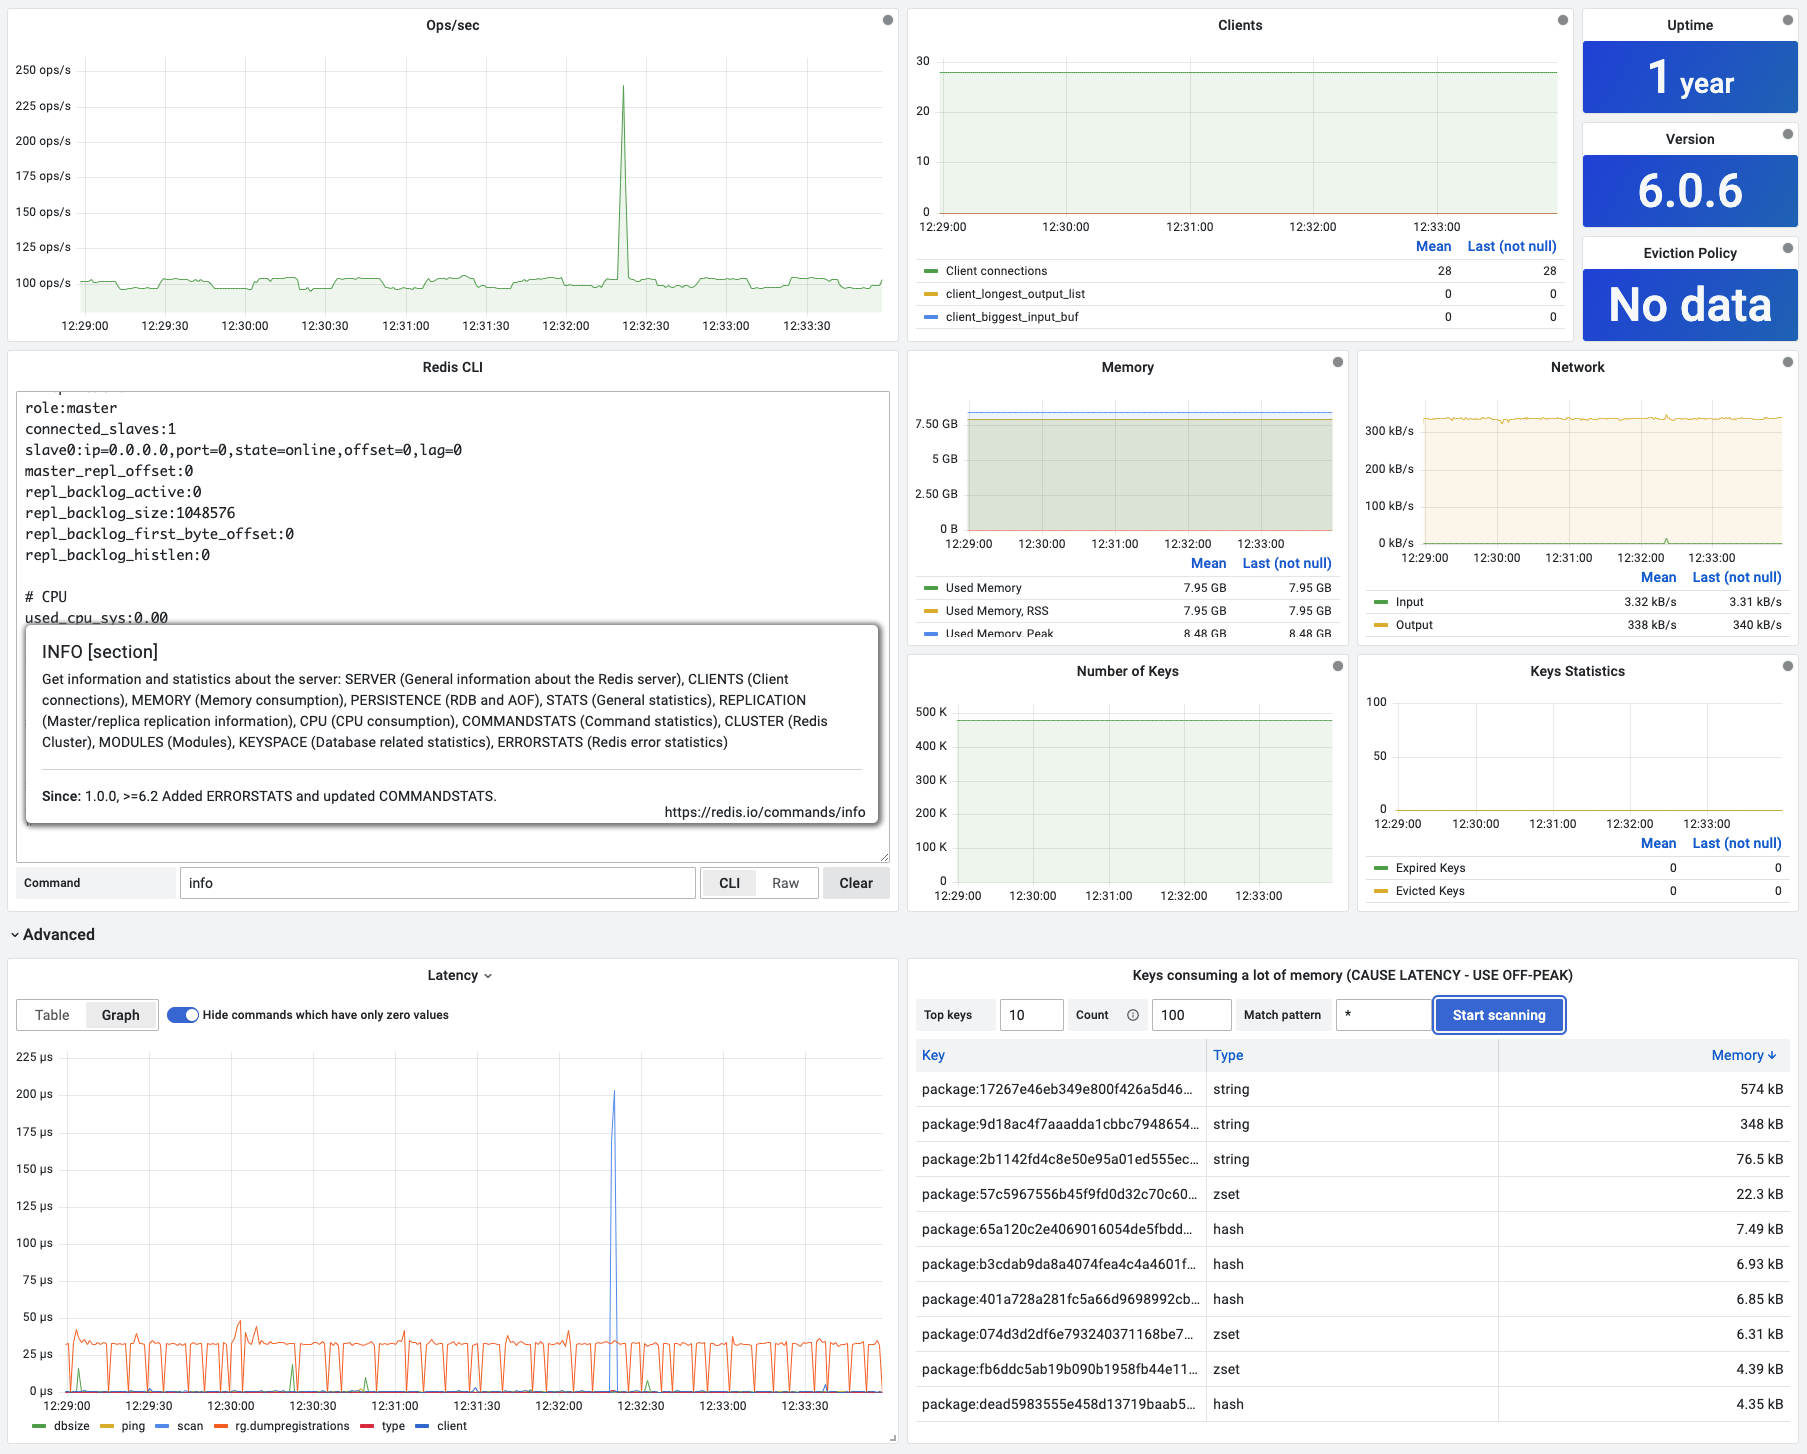
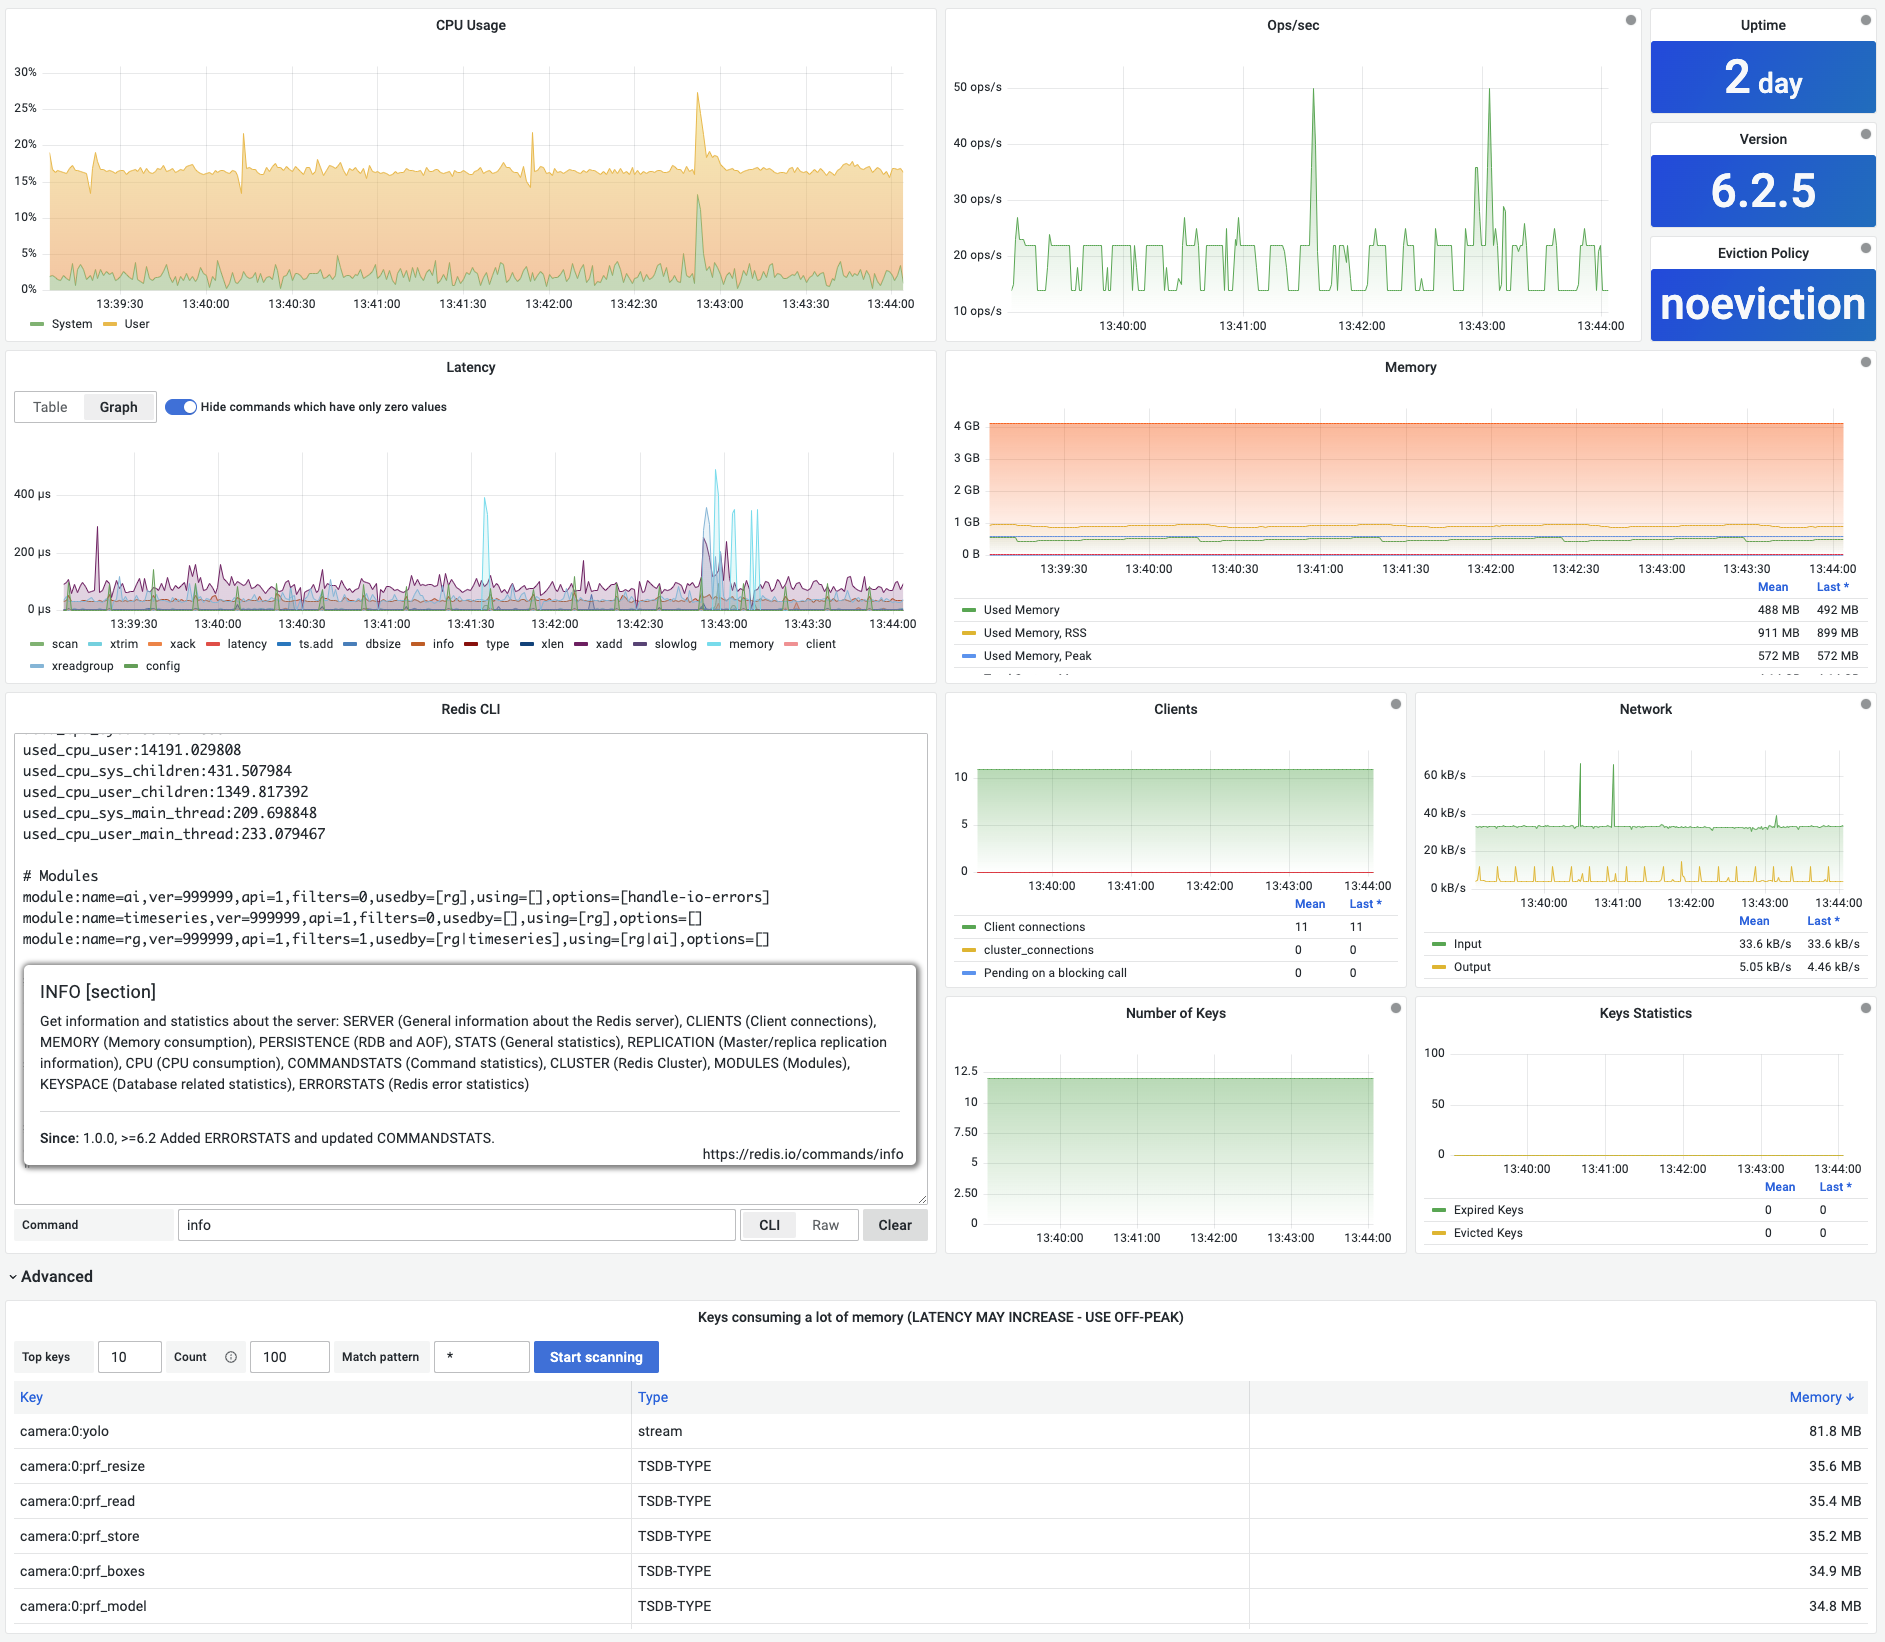
Add CPU Panel and minor updates

diff --git a/docs/overrides/content/dates.html b/docs/overrides/content/dates.html
@@ -169,13 +169,13 @@
         <span class="year">2021</span>
       </span>
       <h2>Redis Application 2.2.0</h2>
-      <p>Adds RedisAI panels.</p>
+      <p>Adds RedisAI and CPU Usage panels.</p>
     </div>
   </article>
   <article>
     <div class="inner">
       <span class="date">
-        <span class="month">Nov</span>
+        <span class="month">Dec</span>
         <span class="year">2021</span>
       </span>
       <h2>Redis Explorer 2.1.0</h2>

diff --git a/docs/intro.md b/docs/intro.md
@@ -8,7 +8,7 @@ The Redis plugins for Grafana allow users to connect to the Redis databases and 
 
 !!! note "What is Grafana?"
 
-    If you’re not familiar with [Grafana](grafana.md), it’s a very popular tool used to build dashboards to monitor applications, infrastructures, and software components.
+    [Grafana](grafana.md) is a very popular tool used to build dashboards to monitor applications, infrastructures, and software components.
 
 !!! important "Requirements"
 
@@ -28,9 +28,9 @@ The Redis plugins for Grafana allow users to connect to the Redis databases and 
 - The [Timeline](timeline.md) page lists all significant dates and plans in the plugin's development.
 - The **Development** section has more details on the developing plugins.
 
-## Grafana Repository
+## Grafana Marketplace
 
-Plugins are registered in the [Grafana repository](https://grafana.com/grafana/plugins/) and available to [Grafana](https://grafana.com/), [Grafana Enterprise](https://grafana.com/products/enterprise/), and [Grafana Cloud](https://grafana.com/products/cloud/).
+Plugins are registered in the [Grafana marketplace](https://grafana.com/grafana/plugins/) and available to [Grafana](https://grafana.com/), [Grafana Enterprise](https://grafana.com/products/enterprise/), and [Grafana Cloud](https://grafana.com/products/cloud/).
 
 | Plugin                                                                           | Description                                                            | GitHub                                                                              |
 | -------------------------------------------------------------------------------- | ---------------------------------------------------------------------- | ----------------------------------------------------------------------------------- |

diff --git a/docs/redis-datasource/redis-gears/RG-PYEXECUTE.md b/docs/redis-datasource/redis-gears/RG-PYEXECUTE.md
@@ -12,23 +12,15 @@ This command executes a Python function.
 
     [https://oss.redis.com/redisgears/commands.html#rgpyexecute](https://oss.redis.com/redisgears/commands.html#rgpyexecute)
 
-![RG.PYEXECUTE](../../images/redis-app/panels/gears-panel.png)
-
 ## Parameters
 
-| Parameter    | Description                                                                                              |
-| ------------ | -------------------------------------------------------------------------------------------------------- |
-| Function     | Python function                                                                                          |
-| Unblocking   | Doesn't block the client during execution                                                                |
-| Requirements | Ensures that list of dependencies it is given as an argument is installed on each shard before execution |
+| Parameter | Description     |
+| --------- | --------------- |
+| Function  | Python function |
 
-## Streaming
+--8<-- "includes/redis-datasource/streaming-any.md"
 
-Streaming is not supported.
-
-## Visualization
-
-This command is not available in Query Editor and can be used only using [RedisGears Script Editor](../../redis-app/panels/redis-gears-panel.md) panel.
+--8<-- "includes/redis-datasource/visualization-any.md"
 
 ## Dashboards
 

diff --git a/docs/redis-app/panels/redis-latency-panel.md b/docs/redis-app/panels/redis-latency-panel.md
@@ -4,9 +4,11 @@ hide: toc
 
 # Command Latency
 
-This panel provides commands's latency based on [INFO COMMANDSTATS](../../redis-datasource/redis/INFO.md).
+This panel provides commands's latency based on the [INFO COMMANDSTATS](../../redis-datasource/redis/INFO.md) command.
 
 > Redis is often used in the context of demanding use cases, where it serves a large number of queries per second per instance, and at the same time, there are very strict latency requirements both for the average response time and for the worst case latency.
+
+![Latency-Graph](../../images/redis-app/panels/latency-panel-graph.png)
 
 ## Query Editor
 
@@ -21,10 +23,6 @@ This panel provides commands's latency based on [INFO COMMANDSTATS](../../redis-
 | View mode       | Table or Graph                            |
 | Samples (Graph) | Number of Samples per command             |
 | Empty (Graph)   | Hide commands which have only zero values |
-
-### Graph view
-
-![Latency-Graph](../../images/redis-app/panels/latency-panel-graph.png)
 
 ### Table view
 

diff --git a/docs/quickstart.md b/docs/quickstart.md
@@ -6,6 +6,12 @@ The Redis plugins for Grafana consists of Redis Data Source, Redis Application a
 
 ![Architecture](/images/redis-plugins.png)
 
+## Grafana Marketplace
+
+In Grafana 8+ Redis Plugins can be installed from the Grafana Marketplace.
+
+![Grafana Marketplace](/images/grafana-marketplace.png)
+
 ## Install using `grafana-cli`
 
 Use the `grafana-cli` tool to install from the command line:
@@ -26,12 +32,6 @@ grafana-cli plugins install redis-app
 grafana-cli plugins install redis-explorer-app
 ```
 
-### Redis Data Source
-
-```bash
-grafana-cli plugins install redis-datasource
-```
-
 ## Run using `Docker`
 
 --8<-- "includes/login-grafana.md"
@@ -42,12 +42,6 @@ grafana-cli plugins install redis-datasource
 
 ```bash
 docker run -p 3000:3000 --name=grafana -e "GF_INSTALL_PLUGINS=redis-app" grafana/grafana
-```
-
-### Redis Data Source
-
-```bash
-docker run -p 3000:3000 --name=grafana -e "GF_INSTALL_PLUGINS=redis-datasource" grafana/grafana
 ```
 
 ### Redis Explorer

diff --git a/docs/redis-app/panels/redis-cpu-panel.md b/docs/redis-app/panels/redis-cpu-panel.md
@@ -1,0 +1,29 @@
+---
+hide: toc
+---
+
+# CPU Usage
+
+This panel provide CPU Usage based on the [INFO CPU](../../redis-datasource/redis/INFO.md) command.
+
+!!! note "Redis Enterprise"
+
+    Redis Enterprise does not expose CPU information for individual shards and this panel is not supported.
+
+![CPU-Panel](../../images/redis-app/panels/cpu-panel.png)
+
+## Query Editor
+
+- Data Source should be selected as variable or exact name.
+- Query is not required.
+
+## Options
+
+| Option   | Description                      |
+| -------- | -------------------------------- |
+| Interval | Interval to run INFO command, ms |
+| Samples  | Number of Samples                |
+
+## Dashboard
+
+- [Redis CLI](../dashboards/cli.md) includes this panel.

diff --git a/docs/projects/grafana-stats.md b/docs/projects/grafana-stats.md
@@ -4,7 +4,7 @@ hide: toc
 
 # Collecting Grafana Plugins Statistics as RedisTimeSeries and visualizing time series using Redis plugins for Grafana
 
-This project collects plugins statistics from Grafana repository using [RedisTimeSeries](https://oss.redis.com/redistimeseries/) and [RedisJSON](https://oss.redis.com/rejson/).
+This project collects plugins statistics from Grafana marketplace using [RedisTimeSeries](https://oss.redis.com/redistimeseries/) and [RedisJSON](https://oss.redis.com/rejson/).
 
 !!! important "Links"
 

diff --git a/docs/redis-app/dashboards/cli.md b/docs/redis-app/dashboards/cli.md
@@ -12,9 +12,12 @@ hide: toc
 
 ## Panels
 
+- [CPU Usage panel](../panels/redis-cpu-panel.md)
+- [Latency panel](../panels/redis-latency-panel.md)
+- [CLI panel](../panels/redis-cli-panel.md)
+- [Keys consuming a lot of memory panel](../panels/redis-keys-panel.md)
 - Operations per second
 - Connected clients
-- [CLI panel](../panels/redis-cli-panel.md)
 - Number of Keys, Expired and Evicted Keys
 - Network (Inbound, Outbound)
 - Memory (Used Memory, Used Memory Peak, LUA, Memory Limit, and Total System memory)

diff --git a/docs/grafana.md b/docs/grafana.md
@@ -4,7 +4,7 @@ hide: toc
 
 # What is Grafana?
 
-If you’re not familiar with Grafana, it’s a very popular tool used to build dashboards to monitor applications, infrastructures, and software components.
+Grafana is a very popular tool used to build dashboards to monitor applications, infrastructures, and software components.
 
 !!! quote
 
